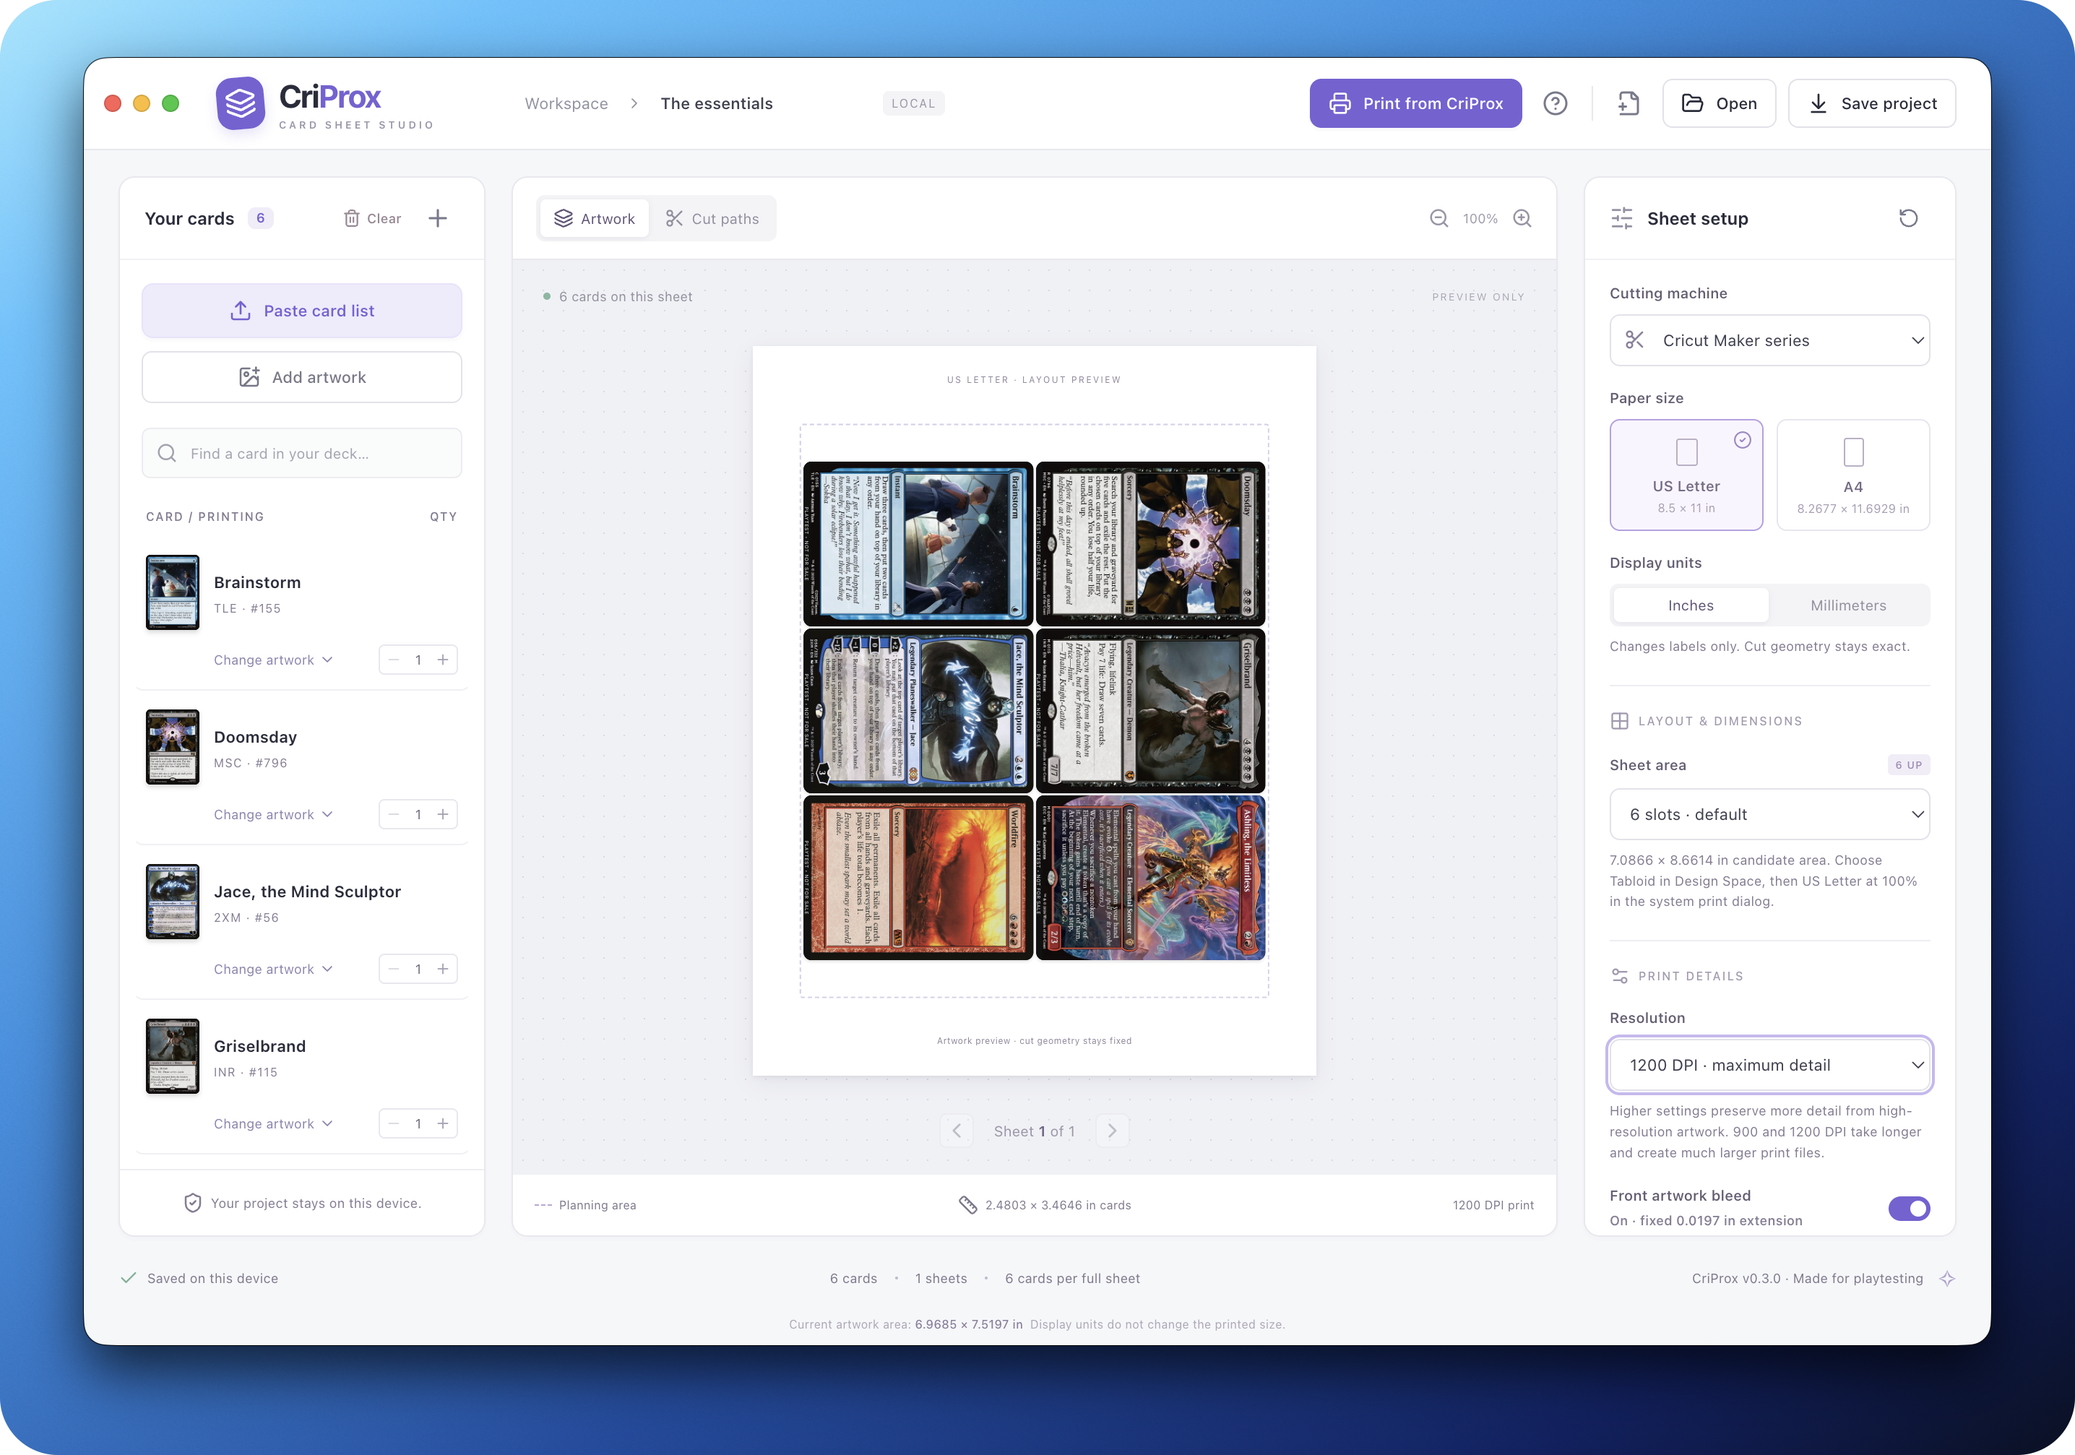
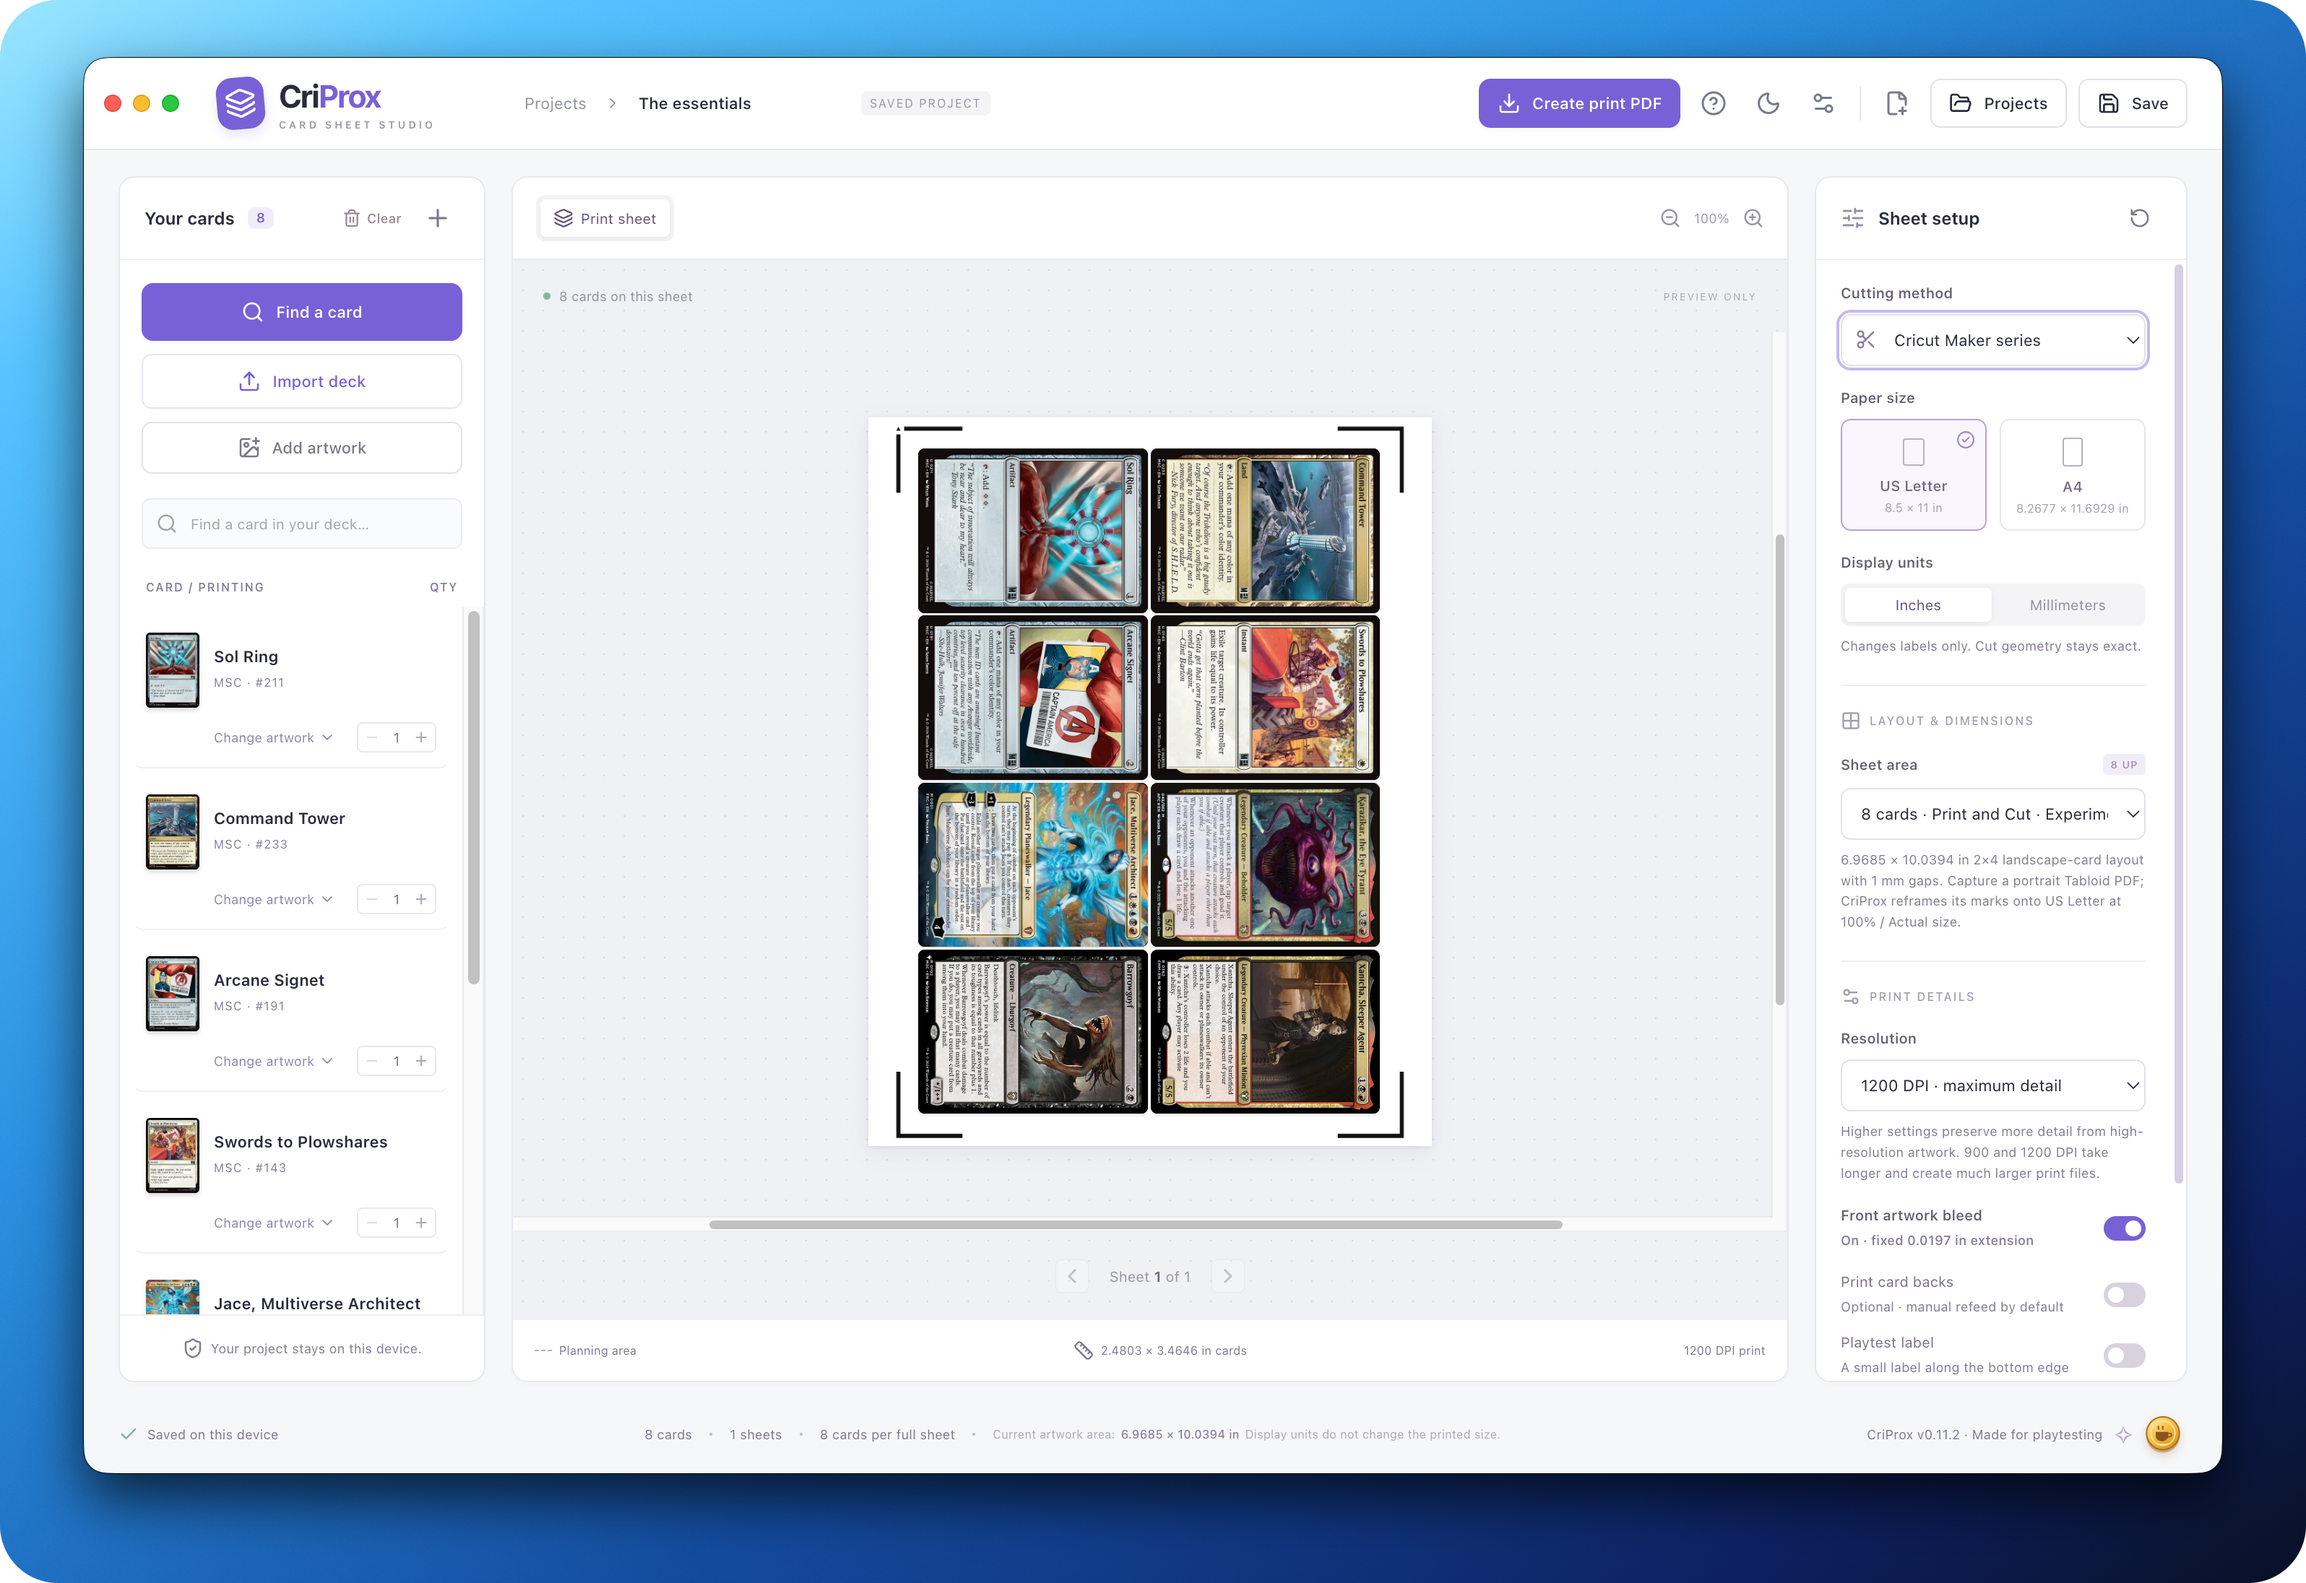
chore(site): update homepage and exclude website from app releases (#87)

diff --git a/site/style.css b/site/style.css
@@ -107,6 +107,84 @@ main,
 .header nav .github-link {
   color: #292c3b;
 }
+.donation-link {
+  position: relative;
+  width: 34px;
+  height: 34px;
+  display: inline-grid;
+  place-items: center;
+  flex-shrink: 0;
+  border-radius: 50%;
+}
+.donation-coin {
+  display: block;
+  width: 32px;
+  height: 32px;
+  transform-origin: 50% 72%;
+  filter: drop-shadow(0 3px 3px #81531938);
+  animation: donation-coin-wiggle 8s ease-in-out infinite;
+}
+.donation-coin svg {
+  display: block;
+  width: 100%;
+  height: 100%;
+}
+.donation-link:hover .donation-coin,
+.donation-link:focus-visible .donation-coin {
+  animation: none;
+  transform: scale(1.1) rotate(-5deg);
+}
+.donation-link:hover,
+.donation-link:focus-visible {
+  background: #fff8e5;
+}
+.donation-tooltip {
+  position: absolute;
+  right: 0;
+  top: calc(100% + 7px);
+  padding: 7px 9px;
+  border: 1px solid #4d405e;
+  border-radius: 6px;
+  background: #302a3c;
+  color: #f8f0ff;
+  font-size: 10px;
+  line-height: 1;
+  white-space: nowrap;
+  box-shadow: 0 6px 18px #24163225;
+  opacity: 0;
+  visibility: hidden;
+  pointer-events: none;
+  transform: translateY(-4px);
+  transition:
+    opacity 0.15s ease,
+    transform 0.15s ease,
+    visibility 0.15s ease;
+}
+.donation-link:hover .donation-tooltip,
+.donation-link:focus-visible .donation-tooltip {
+  opacity: 1;
+  visibility: visible;
+  transform: translateY(0);
+}
+@keyframes donation-coin-wiggle {
+  0%,
+  85%,
+  100% {
+    transform: rotate(0deg);
+  }
+  87% {
+    transform: rotate(-9deg);
+  }
+  89% {
+    transform: rotate(8deg);
+  }
+  91% {
+    transform: rotate(-5deg);
+  }
+  93% {
+    transform: rotate(2deg);
+  }
+}
 .skip-link {
   position: absolute;
   top: -100px;
@@ -210,7 +288,7 @@ figcaption {
   border-bottom: 1px solid var(--border);
 }
 .section:nth-of-type(odd) {
-  --section-bg: #f1edfc;
+  --section-bg: #f3f3f3;
 }
 .section::before {
   content: '';
@@ -345,9 +423,6 @@ figcaption {
   margin-top: 20px;
   color: var(--muted);
   font-size: 12px;
-}
-.whats-new {
-  border-bottom: 0;
 }
 .page-intro {
   margin-block: 68px 55px;
@@ -711,5 +786,8 @@ figcaption {
   }
   * {
     transition: none !important;
+  }
+  .donation-coin {
+    animation: none;
   }
 }

diff --git a/docs/WEBSITE.md b/docs/WEBSITE.md
@@ -55,6 +55,19 @@ Production builds fail if GitHub cannot supply release data, preserving the last
 instead of silently replacing it with an incomplete or stale release timeline. The published site
 needs no JavaScript, API calls from visitors, external fonts, or app dependencies.
 
+## Website changes and app releases
+
+Website updates publish through the Website workflow independently of app releases. Use non-breaking
+`chore(site):`, `docs(site):`, or `style(site):` commits and PR titles for website changes. They must
+never produce application release notes or version bumps; do not use `feat`, `fix`, `perf`, `!`,
+or breaking-change footers. Keep app behavior changes in a separate PR with its own release subject.
+
+The application package in `release-please-config.json` excludes commits confined to the `site/`
+and `docs/assets/` directories before calculating versions and generating release notes. These are
+directory prefixes, not file globs. CI additionally checks website PR titles, including website
+workflow changes and README updates accompanying website files. Mixed app and documentation commits
+remain eligible for app releases, so genuine app features are still released normally.
+
 ## Adding a feature
 
 Update `docs/FEATURES.md` or the relevant workflow guide in the same PR as the feature. Add a row

diff --git a/CONTRIBUTING.md b/CONTRIBUTING.md
@@ -30,6 +30,13 @@ Use `feat!:` or a `BREAKING CHANGE:` footer when a change is incompatible. `feat
 
 Pull requests should describe the implementation, validation, and any user-facing or compatibility impact. A maintainer may squash-merge a pull request, so its title must also be a valid Conventional Commit.
 
+Website updates must use non-breaking `chore(site):`, `docs(site):`, or `style(site):` commits and
+PR titles. Do not use `feat`, `fix`, `perf`, or breaking-change footers for website work; the site
+publishes independently and must not trigger app releases or add app release notes. Keep application
+behavior changes in a separate PR. Release Please excludes commits confined to `site/` and
+`docs/assets/`; CI also rejects release-triggering website PR titles, including changes to the
+website workflow or shared README alongside website files.
+
 For user-facing features, update the feature reference or relevant guide in the same pull request.
 Update the README feature table when a capability belongs on the homepage. The website publishes
 these sources automatically, and CI checks that feature PRs include a documentation update.

diff --git a/AGENTS.md b/AGENTS.md
@@ -15,3 +15,9 @@ build. Use `npm run build --prefix site -- --offline` when release API access is
 Use human-readable Conventional Commit subjects and PR titles. Release Please manages version
 files and `CHANGELOG.md`; do not edit them by hand. Describe the actual user-visible result in
 feature and fix subjects because those subjects become the public release notes.
+
+Website changes must never trigger an application release or appear in application release notes.
+Use non-breaking `chore(site):`, `docs(site):`, or `style(site):` commits and PR titles for website
+work, including screenshots and website workflows. Never use `feat(site):`, `fix(site):`, `perf(site):`,
+`!`, or breaking-change footers. Keep app behavior changes in a separate PR. Release Please excludes
+commits confined to `site/` and `docs/assets/`, and CI checks website PR titles as an additional guard.

diff --git a/README.md b/README.md
@@ -24,7 +24,7 @@
   </p>
 </div>
 
-![CriProx artwork preview showing six cards in the default layout](docs/assets/criprox-studio.png)
+![CriProx desktop studio showing an eight-card print sheet and sheet settings](docs/assets/criprox-studio.png)
 
 <p align="center"><em>Six-card artwork preview · Demo card imagery loaded through Scryfall.</em></p>
 
